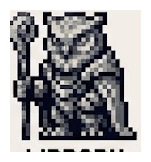
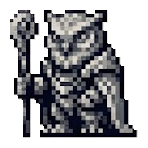
fix: remove backgrounds from monster sprites

diff --git a/index.html b/index.html
@@ -4,7 +4,7 @@
   <meta charset="utf-8">
   <meta name="viewport" content="width=device-width,initial-scale=1">
   <title>Math Quest</title>
-  <link rel="stylesheet" href="css/game.css?v=25">
+  <link rel="stylesheet" href="css/game.css?v=26">
 </head>
 <body>
 <main class="game-shell">
@@ -272,11 +272,11 @@
   </div>
 </div>
 
-<script src="js/heroes.js?v=25"></script>
-<script src="js/math.js?v=25"></script>
-<script src="js/blocks.js?v=25"></script>
-<script src="js/combat.js?v=25"></script>
-<script src="js/animations.js?v=25"></script>
-<script src="js/game.js?v=25"></script>
+<script src="js/heroes.js?v=26"></script>
+<script src="js/math.js?v=26"></script>
+<script src="js/blocks.js?v=26"></script>
+<script src="js/combat.js?v=26"></script>
+<script src="js/animations.js?v=26"></script>
+<script src="js/game.js?v=26"></script>
 </body>
 </html>

diff --git a/README.md b/README.md
@@ -282,3 +282,8 @@ Added supplied pixel-art monster sprites for all 21 enemies in:
 - Clocktower
 
 The previous emoji placeholders have been replaced with image files in `characterImages/`.
+
+
+## v26 transparent monster sprites
+
+The 21 supplied monster sprites for Living Library, The Vault, and Clocktower now use transparent PNG backgrounds. The printed labels from the original sprite sheet are excluded from the individual assets.
